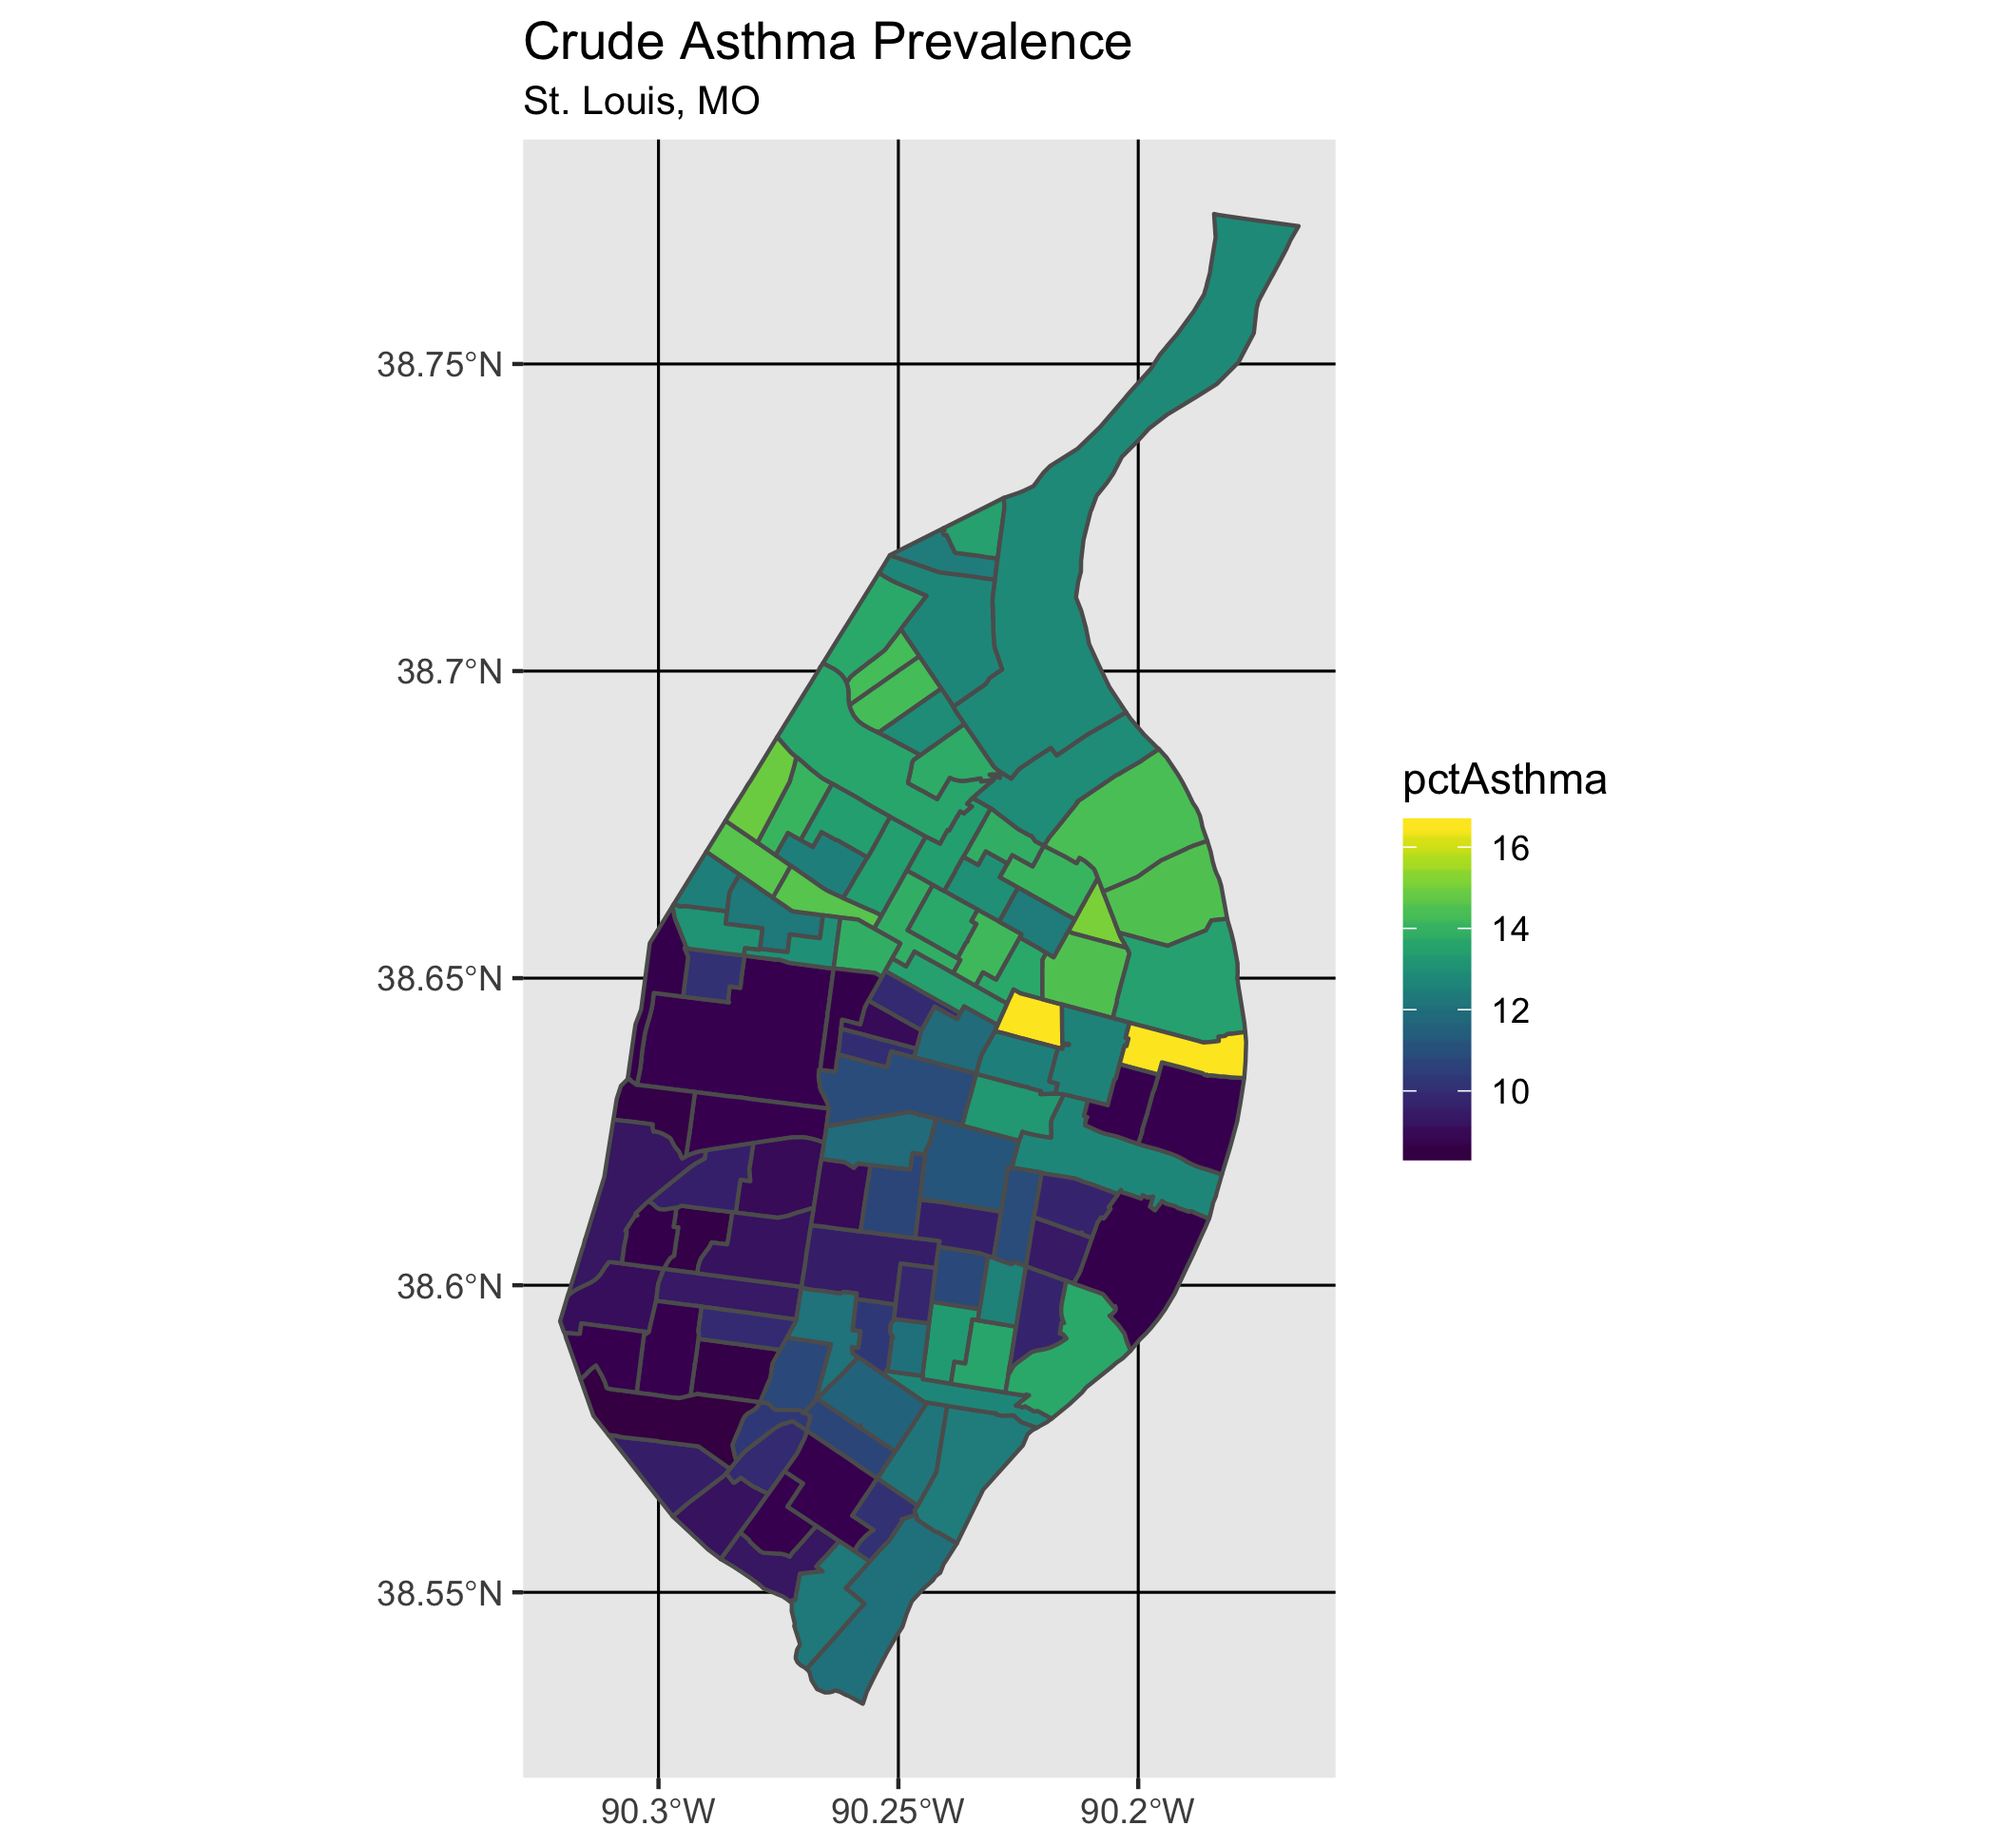
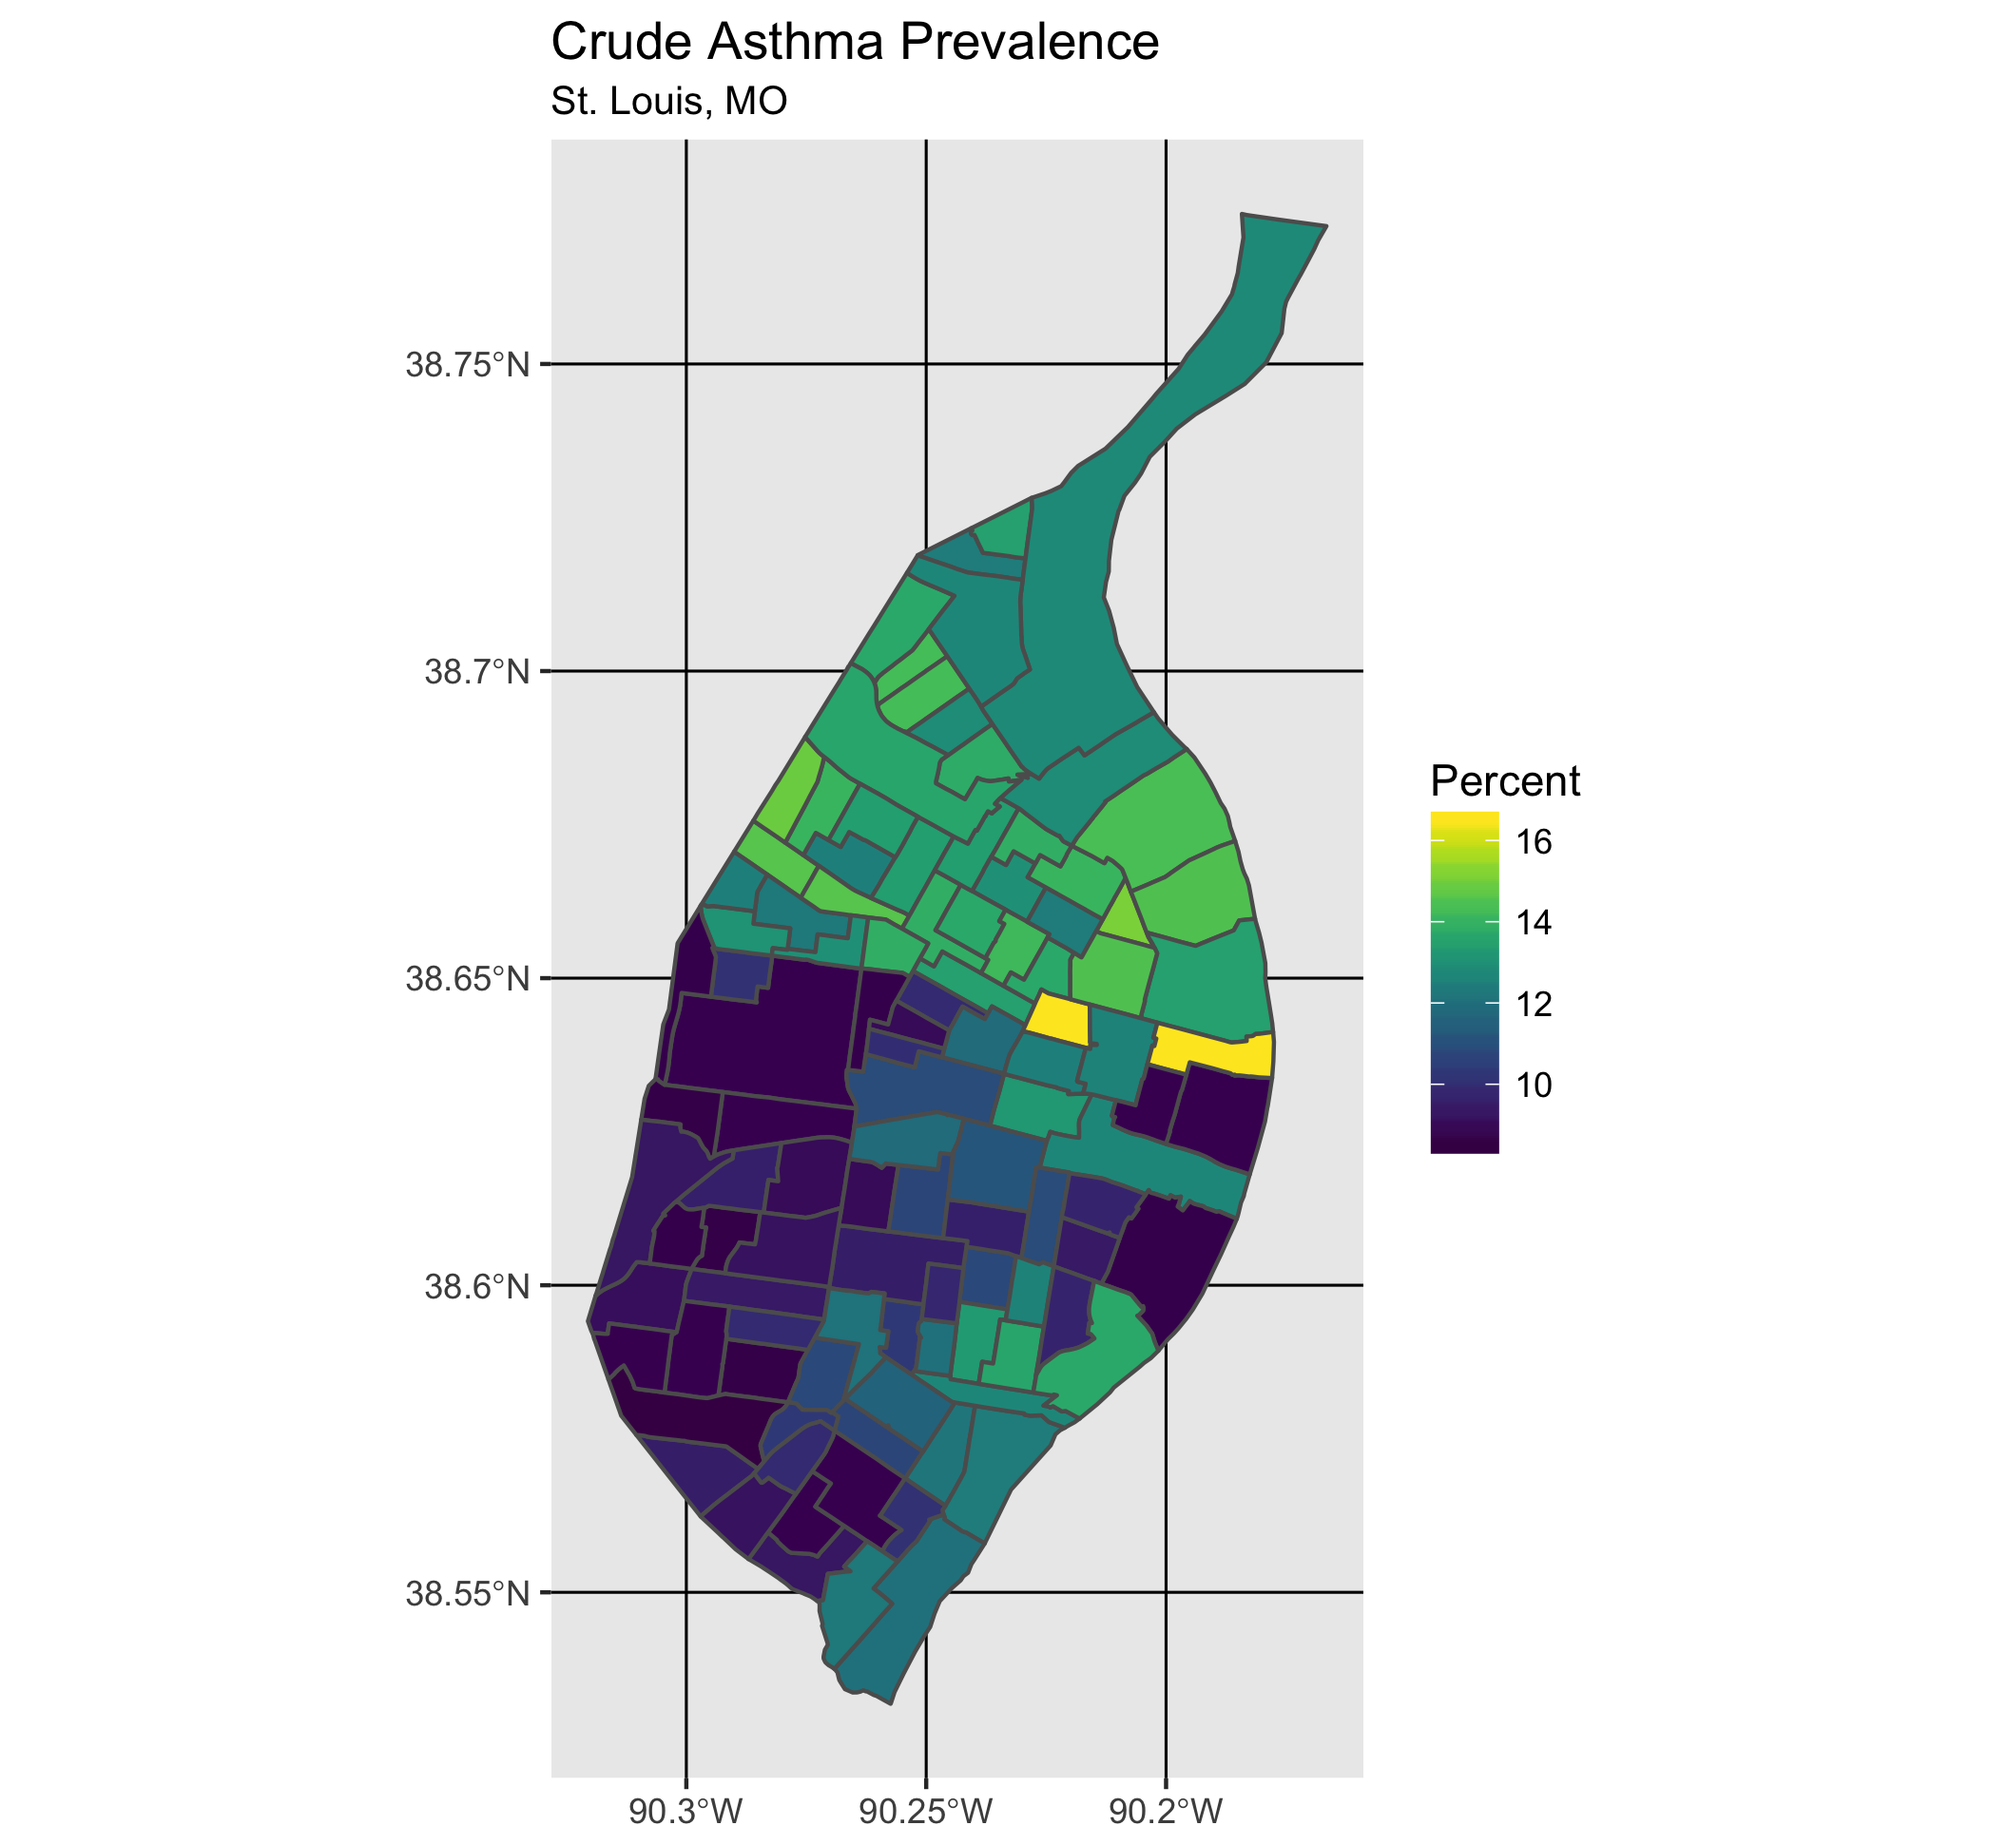
small revisions to README

Changed region(s): [[0.1875, 0.0, 0.8125, 0.9892]]

diff --git a/README.md b/README.md
@@ -83,17 +83,21 @@ If you have the [development version of `ggplot2`](https://github.com/tidyverse/
 ggplot() + 
   geom_sf(data = stl_sf_boundary, fill = "#5d5d5d", color = "#5d5d5d") +
   geom_sf(data = stl_sf_historic, fill = "#d48a72", color = "#d48a72") +
-  geom_sf(data = stl_sf_hydro, fill = "#72bcd4", color = "#72bcd4")
+  geom_sf(data = stl_sf_hydro, fill = "#72bcd4", color = "#72bcd4")  +
+  labs(title = "Historic Districts", subtitle = "St. Louis, MO")
 ```
 
 ![](man/figures/refMap.png)
+
+When the tibbles like `stl_tbl_asthma` are converted to `sf` objects, they can be mapped as well:
 
 ``` r
 asthma <- stl_as_sf(stl_tbl_asthma)
 
 ggplot() + 
   geom_sf(data = stl_sf_asthma, mapping = aes(fill = pctAsthma), color = "#5d5d5d") +
-  scale_fill_viridis()
+  scale_fill_viridis(name = "Percent") +
+  labs(title = "Crude Asthma Prevalence", subtitle = "St. Louis, MO")
 ```
 
 ![](man/figures/asthmaMap.png)
